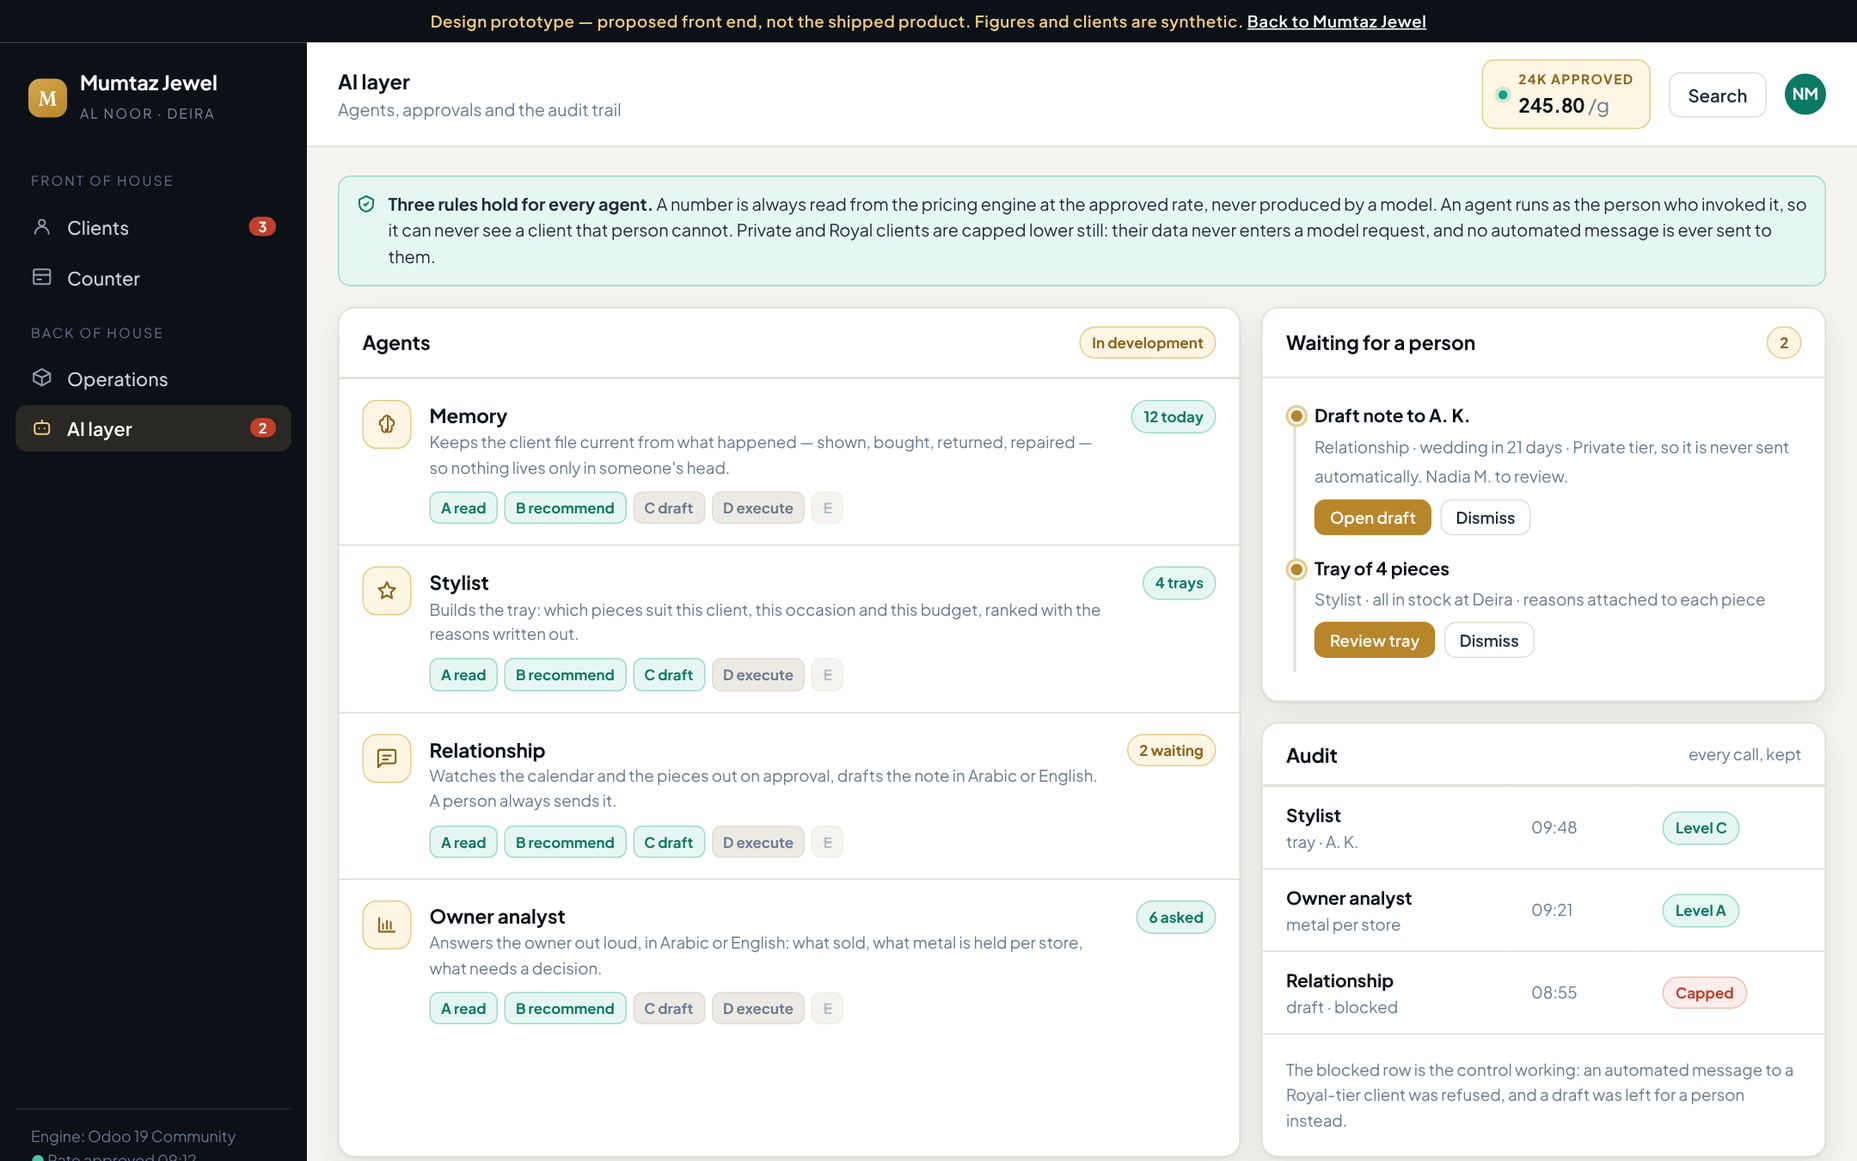
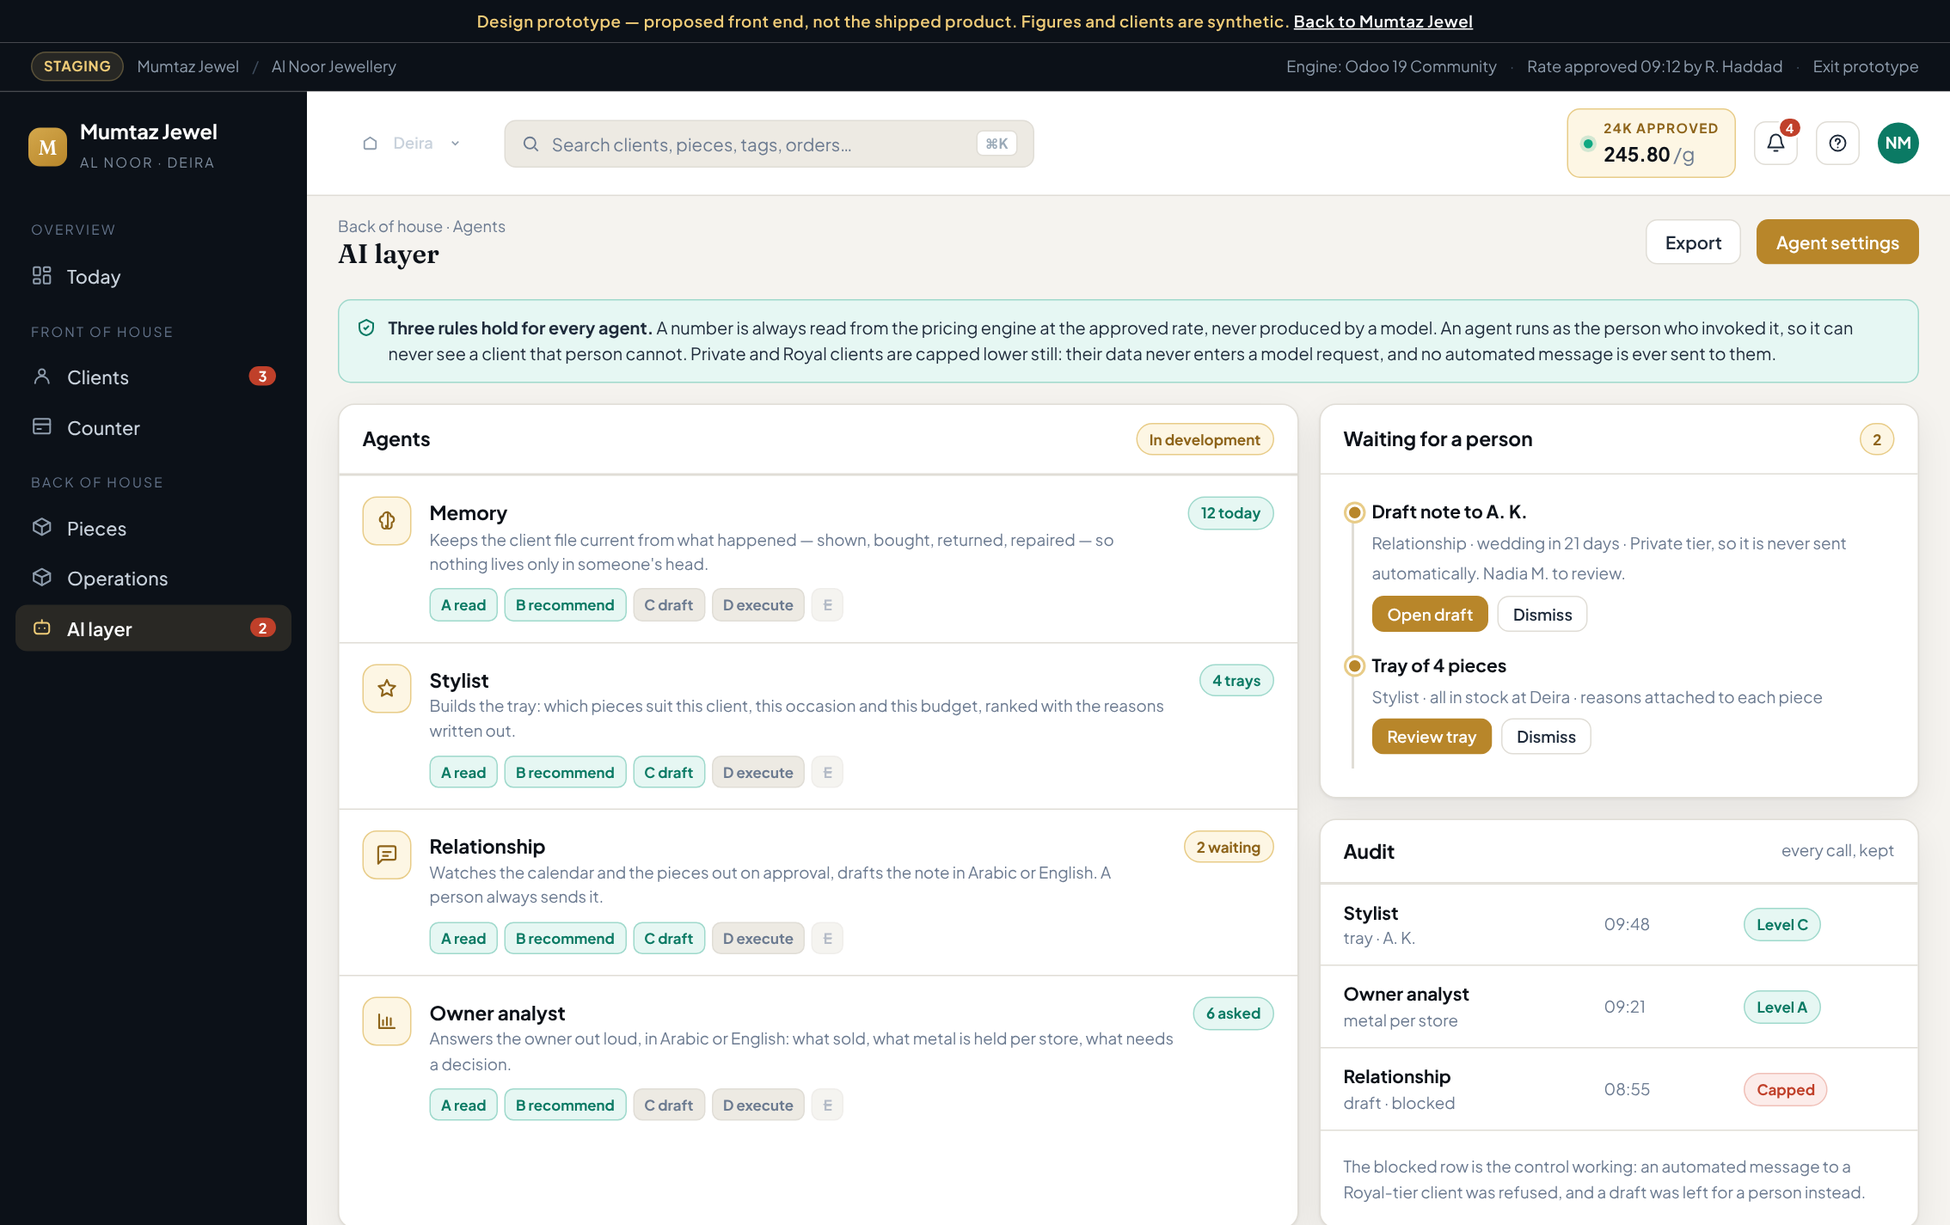
Enterprise chrome on the prototype, plus an owner overview and a pieces list
The four screens looked like a good app but not like a product an operations
director signs off. Added the chrome that distinction actually rests on.

A utility bar above everything: environment badge, tenant and brand, the
engine it runs on, and who approved today's rate at what time — the line an
auditor looks for first. A working top bar: store switcher, global search
with its keyboard hint, the live approved rate, notifications with a count,
help and the signed-in user with their role. A page bar with breadcrumb,
title and the actions that belong to that screen, changing per screen. A
status bar along the foot: connection and last sync, store and till, whose
shift is open, how long the rate snapshot is locked, and a build number.

Two new screens:

* Today — the owner's four minutes. What sold, metal moved, stock value at
  today's rate, what needs them. A week of sales, where the metal sits across
  three stores and in transit, and a decisions table where every row says
  what it is worth and carries its own button.
* Pieces — the whole book as a filterable table: tag, weight, store, age,
  live price, status. Filters for slow stock, on approval and in transit. The
  114-day row is the one the Command Centre raises for a markdown.

Six screens now, each with its own breadcrumb and primary action. Rendered at
1512 and 390 wide: no console errors, no horizontal scroll, titles and
breadcrumbs switching correctly on every tab.
[…]

Changed region(s): [[0.0, 0.0, 1.0, 1.0], [0.0, 0.9644, 0.1241, 1.0], [0.0, 0.1867, 0.062, 0.2489]]

diff --git a/website/jewel/preview/index.html b/website/jewel/preview/index.html
@@ -147,6 +147,41 @@ td{padding:11px 18px;border-top:1px solid var(--paper3)}
 .pay{display:grid;grid-template-columns:1fr 1fr;gap:9px;margin-top:12px}
 .paybtn{border:1px solid var(--paper3);background:var(--surface);border-radius:10px;padding:11px;text-align:center;font-size:.84rem;font-weight:600}
 
+/* enterprise chrome */
+.util{display:flex;align-items:center;gap:10px;padding:0 24px;height:38px;background:var(--rail);color:#8E9CAC;font-size:.76rem;border-bottom:1px solid rgba(255,255,255,.07)}
+.util .env{display:inline-flex;align-items:center;gap:6px;background:rgba(240,204,120,.12);color:var(--gold3);border:1px solid rgba(240,204,120,.26);padding:2px 9px;border-radius:999px;font-weight:700;font-size:.68rem;letter-spacing:.05em}
+.util a{color:#8E9CAC;text-decoration:none}
+.util a:hover{color:#fff}
+.store{display:inline-flex;align-items:center;gap:7px;background:rgba(255,255,255,.06);border:1px solid rgba(255,255,255,.1);border-radius:8px;padding:3px 10px;color:#C9D2DC;font-weight:600;font-size:.76rem}
+.store svg{width:12px;height:12px;stroke:#8E9CAC;fill:none;stroke-width:2.4}
+.search{flex:1;max-width:430px;display:flex;align-items:center;gap:9px;background:var(--paper2);border:1px solid var(--paper3);border-radius:9px;padding:7px 12px;color:var(--ink3);font-size:.85rem}
+.search svg{width:15px;height:15px;stroke:var(--ink3);fill:none;stroke-width:2}
+.kbd{margin-left:auto;font-size:.68rem;font-weight:700;color:var(--ink4);background:var(--surface);border:1px solid var(--paper3);border-radius:5px;padding:1px 6px}
+.iconbtn{position:relative;width:34px;height:34px;border-radius:9px;border:1px solid var(--paper3);background:var(--surface);display:grid;place-items:center}
+.iconbtn svg{width:16px;height:16px;stroke:var(--ink2);fill:none;stroke-width:1.9;stroke-linecap:round}
+.iconbtn .bdg{position:absolute;top:-5px;right:-5px;background:var(--coral);color:#fff;font-size:.62rem;font-weight:700;border-radius:999px;padding:1px 5px;border:2px solid var(--surface)}
+.pagebar{display:flex;align-items:center;gap:12px;padding:14px 24px 0}
+.pagebar h2{font-family:var(--display);font-size:1.3rem;font-weight:600}
+.pagebar .bc{font-size:.76rem;color:var(--ink3)}
+.toolbar{display:flex;align-items:center;gap:8px;padding:11px 18px;border-bottom:1px solid var(--paper3);background:var(--paper2);border-radius:var(--r) var(--r) 0 0}
+.filt{display:inline-flex;align-items:center;gap:6px;background:var(--surface);border:1px solid var(--paper3);border-radius:8px;padding:5px 10px;font-size:.78rem;font-weight:600;color:var(--ink2)}
+.filt.on{background:var(--gold-bg);border-color:var(--gold-border);color:var(--gold-dark)}
+.statusbar{display:flex;align-items:center;gap:16px;padding:8px 24px;background:var(--surface);border-top:1px solid var(--paper3);font-size:.73rem;color:var(--ink3)}
+.statusbar .dotg{width:7px;height:7px;border-radius:50%;background:var(--teal2);display:inline-block;margin-right:6px}
+.chart{display:flex;align-items:flex-end;gap:6px;height:118px;padding-top:8px}
+.chart i{flex:1;background:linear-gradient(180deg,var(--gold2),var(--gold));border-radius:3px 3px 0 0;display:block;position:relative}
+.chart i.alt{background:linear-gradient(180deg,var(--teal3),var(--teal))}
+.chartx{display:flex;gap:6px;margin-top:6px}
+.chartx span{flex:1;text-align:center;font-size:.66rem;color:var(--ink4)}
+.don{width:112px;height:112px;border-radius:50%;background:conic-gradient(var(--gold) 0 54%,var(--gold3) 54% 78%,var(--teal3) 78% 92%,var(--paper3) 92% 100%);display:grid;place-items:center;margin:0 auto}
+.don .hole{width:74px;height:74px;border-radius:50%;background:var(--surface);display:grid;place-items:center;text-align:center;line-height:1.15}
+.don .hole b{font-family:var(--display);font-size:1.15rem;font-weight:600}
+.don .hole small{font-size:.63rem;color:var(--ink3)}
+.leg{display:flex;flex-direction:column;gap:7px;font-size:.8rem}
+.leg div{display:flex;align-items:center;gap:8px}
+.leg i{width:9px;height:9px;border-radius:2px;display:block}
+@media (max-width:900px){.util{display:none}.pagebar{padding:12px 16px 0}}
+
 /* counter: client context */
 .cstrip{display:grid;grid-template-columns:auto 1fr auto;gap:16px;align-items:center;padding:14px 18px;background:
   linear-gradient(100deg,var(--ink) 0%,var(--rail2) 58%,#1E2A3A 100%);color:#fff;border-radius:var(--r);box-shadow:var(--shadow)}
@@ -211,6 +246,19 @@ td{padding:11px 18px;border-top:1px solid var(--paper3)}
   <a href="../index.html">Back to Mumtaz Jewel</a>
 </div>
 
+<div class="util">
+  <span class="env">STAGING</span>
+  <span>Mumtaz Jewel</span>
+  <span style="color:#3F4D5E">/</span>
+  <span>Al Noor Jewellery</span>
+  <span class="sp" style="flex:1"></span>
+  <span>Engine: Odoo 19 Community</span>
+  <span style="color:#3F4D5E">·</span>
+  <span>Rate approved 09:12 by R. Haddad</span>
+  <span style="color:#3F4D5E">·</span>
+  <a href="../index.html">Exit prototype</a>
+</div>
+
 <div class="shell">
   <nav class="rail">
     <div class="brandrow">
@@ -218,8 +266,14 @@ td{padding:11px 18px;border-top:1px solid var(--paper3)}
       <span><b>Mumtaz Jewel</b><small>Al Noor · Deira</small></span>
     </div>
 
+    <div class="railsec">Overview</div>
+    <button class="navb on" data-s="dash">
+      <svg viewBox="0 0 24 24"><rect x="3" y="3" width="7" height="9" rx="1.5"/><rect x="14" y="3" width="7" height="5" rx="1.5"/><rect x="14" y="12" width="7" height="9" rx="1.5"/><rect x="3" y="16" width="7" height="5" rx="1.5"/></svg>
+      Today
+    </button>
+
     <div class="railsec">Front of house</div>
-    <button class="navb on" data-s="clients">
+    <button class="navb" data-s="clients">
       <svg viewBox="0 0 24 24"><circle cx="12" cy="8" r="3.4"/><path d="M4.5 20a7.5 7.5 0 0115 0"/></svg>
       Clients <span class="pill">3</span>
     </button>
@@ -229,6 +283,10 @@ td{padding:11px 18px;border-top:1px solid var(--paper3)}
     </button>
 
     <div class="railsec">Back of house</div>
+    <button class="navb" data-s="inv">
+      <svg viewBox="0 0 24 24"><path d="M12 3l9 5v8l-9 5-9-5V8z"/><path d="M3.5 7.5L12 12l8.5-4.5M12 12v9"/></svg>
+      Pieces
+    </button>
     <button class="navb" data-s="ops">
       <svg viewBox="0 0 24 24"><path d="M12 3l9 5v8l-9 5-9-5V8z"/><path d="M12 12l9-4M12 12v9M12 12L3 8"/></svg>
       Operations
@@ -246,20 +304,130 @@ td{padding:11px 18px;border-top:1px solid var(--paper3)}
 
   <div class="main">
     <div class="top">
-      <div class="crumb"><b id="t-title">Clients</b><span id="t-sub">Client 360</span></div>
+      <div class="store">
+        <svg viewBox="0 0 24 24"><path d="M3 9l9-6 9 6v10a2 2 0 01-2 2H5a2 2 0 01-2-2z"/></svg>
+        Deira
+        <svg viewBox="0 0 24 24" style="width:10px"><path d="M6 9l6 6 6-6"/></svg>
+      </div>
+      <div class="search">
+        <svg viewBox="0 0 24 24"><circle cx="11" cy="11" r="7"/><path d="M21 21l-4.3-4.3"/></svg>
+        Search clients, pieces, tags, orders…
+        <span class="kbd">⌘K</span>
+      </div>
       <div class="sp"></div>
       <div class="rate">
         <span class="dot"></span>
         <span><small>24K approved</small><b class="num">245.80 <span class="muted" style="font-weight:400">/g</span></b></span>
       </div>
-      <button class="btn b-ghost">Search</button>
-      <span class="who">NM</span>
+      <button class="iconbtn" title="Notifications">
+        <svg viewBox="0 0 24 24"><path d="M18 8a6 6 0 10-12 0c0 7-3 7-3 9h18c0-2-3-2-3-9"/><path d="M10 21h4"/></svg>
+        <span class="bdg">4</span>
+      </button>
+      <button class="iconbtn" title="Help"><svg viewBox="0 0 24 24"><circle cx="12" cy="12" r="9"/><path d="M9.5 9.5a2.5 2.5 0 113.5 2.3c-.6.3-1 .9-1 1.7M12 17h.01"/></svg></button>
+      <span class="who" title="Nadia M. · Relationship manager">NM</span>
+    </div>
+
+    <div class="pagebar">
+      <div>
+        <div class="bc" id="t-bc">Front of house · Clients</div>
+        <h2 id="t-title">Client 360</h2>
+      </div>
+      <div class="sp" style="flex:1"></div>
+      <button class="btn b-ghost">Export</button>
+      <button class="btn b-gold" id="t-cta">New client</button>
     </div>
 
     <div class="canvas">
 
+<!-- ============ TODAY / OWNER ============ -->
+      <section class="screen on" id="s-dash">
+        <div class="g g4" style="margin-bottom:16px">
+          <div class="card kpi"><small>Sold today</small><b class="num">148,920</b><div class="d up">+18% on last Tuesday</div></div>
+          <div class="card kpi"><small>Metal moved</small><b class="num">612 g</b><div class="d muted">out 684 g · in 72 g</div></div>
+          <div class="card kpi"><small>Stock value</small><b class="num">2.91 M</b><div class="d up">+1.2% on the rate</div></div>
+          <div class="card kpi"><small>Needs you</small><b class="num">4</b><div class="d down">1 overdue</div></div>
+        </div>
+
+        <div class="g split">
+          <div class="card">
+            <div class="hd"><h3>Sales this week</h3><span class="sp"></span>
+              <span class="filt on">7 days</span><span class="filt">30 days</span><span class="filt">Quarter</span></div>
+            <div class="pad">
+              <div class="chart">
+                <i style="height:48%"></i><i style="height:62%"></i><i style="height:41%"></i>
+                <i style="height:74%"></i><i style="height:56%"></i><i class="alt" style="height:92%"></i><i style="height:38%"></i>
+              </div>
+              <div class="chartx"><span>Wed</span><span>Thu</span><span>Fri</span><span>Sat</span><span>Sun</span><span>Mon</span><span>Tue</span></div>
+              <p class="note" style="margin-top:12px">Monday was the wedding season opening. Teal marks the day the 22K necklace line sold out at Deira.</p>
+            </div>
+          </div>
+
+          <div class="card">
+            <div class="hd"><h3>Where the metal sits</h3></div>
+            <div class="pad" style="display:grid;grid-template-columns:auto 1fr;gap:18px;align-items:center">
+              <div class="don"><div class="hole"><b class="num">11.84</b><small>kg fine</small></div></div>
+              <div class="leg">
+                <div><i style="background:var(--gold)"></i> Deira · 4.14 kg</div>
+                <div><i style="background:var(--gold3)"></i> Marina · 3.93 kg</div>
+                <div><i style="background:var(--teal3)"></i> Sharjah · 3.64 kg</div>
+                <div><i style="background:var(--paper3)"></i> In transit · 0.13 kg</div>
+              </div>
+            </div>
+          </div>
+        </div>
+
+        <div class="card" style="margin-top:16px">
+          <div class="hd"><h3>Decisions waiting</h3><span class="sp"></span><span class="chip c-coral">1 overdue</span></div>
+          <table>
+            <thead><tr><th>What</th><th>Why it matters</th><th>Worth</th><th>Action</th></tr></thead>
+            <tbody>
+              <tr><td><b>Approve gold rate 246.40/g</b><div class="tiny muted">entered 08:51 by R. Haddad</div></td>
+                  <td class="tiny muted">Prices stay on this morning's rate until a different manager approves it</td>
+                  <td class="num">—</td><td><button class="btn b-gold" style="padding:5px 12px;font-size:.78rem">Review</button></td></tr>
+              <tr><td><b>Old-gold exchange OGX/00042</b><div class="tiny muted">taken in at Marina, over the threshold</div></td>
+                  <td class="tiny muted">Needs a second person before the credit is given</td>
+                  <td class="num">8,410</td><td><button class="btn b-gold" style="padding:5px 12px;font-size:.78rem">Approve</button></td></tr>
+              <tr><td><b>MEMO/00017 overdue</b><div class="tiny muted">2 pieces with a Private client since 28 Oct</div></td>
+                  <td class="tiny muted">Insured value is on your book until it comes back</td>
+                  <td class="num">31,200</td><td><button class="btn b-ghost" style="padding:5px 12px;font-size:.78rem">Open</button></td></tr>
+              <tr><td><b>Marina reconciliation open</b><div class="tiny muted">−2.4 g unexplained</div></td>
+                  <td class="tiny muted">Held open until someone accounts for it</td>
+                  <td class="num">590</td><td><button class="btn b-ghost" style="padding:5px 12px;font-size:.78rem">Open</button></td></tr>
+            </tbody>
+          </table>
+        </div>
+      </section>
+
+      <!-- ============ PIECES / INVENTORY ============ -->
+      <section class="screen" id="s-inv">
+        <div class="card">
+          <div class="toolbar">
+            <span class="filt on">All stores</span>
+            <span class="filt">22K</span>
+            <span class="filt">On approval</span>
+            <span class="filt">Unsold 90+ days</span>
+            <span class="sp" style="flex:1"></span>
+            <span class="tiny muted">1,284 pieces · 11.84 kg fine · priced at 245.80/g</span>
+          </div>
+          <table>
+            <thead><tr><th>Tag</th><th>Piece</th><th>Karat</th><th>Net</th><th>Store</th><th>Age</th><th>Price</th><th>Status</th></tr></thead>
+            <tbody>
+              <tr><td class="num">BNG-0001</td><td><b>Bangle</b><div class="tiny muted">cert 55121</div></td><td>22K</td><td class="num">24.500 g</td><td>Deira</td><td class="tiny muted">12 d</td><td class="num">6,491.74</td><td><span class="chip c-teal">In stock</span></td></tr>
+              <tr><td class="num">NCK-0114</td><td><b>Necklace</b><div class="tiny muted">asked for by A. K.</div></td><td>22K</td><td class="num">41.200 g</td><td>Deira</td><td class="tiny muted">31 d</td><td class="num">10,918.20</td><td><span class="chip c-gold">Reserved</span></td></tr>
+              <tr><td class="num">RNG-0002</td><td><b>Ring with stones</b><div class="tiny muted">cert 55122</div></td><td>18K</td><td class="num">6.300 g</td><td>Marina</td><td class="tiny muted">8 d</td><td class="num">4,102.55</td><td><span class="chip c-gold">On approval</span></td></tr>
+              <tr><td class="num">CHN-0002</td><td><b>Chain</b></td><td>21K</td><td class="num">42.100 g</td><td>Sharjah</td><td class="tiny muted">114 d</td><td class="num">11,236.40</td><td><span class="chip c-coral">Slow</span></td></tr>
+              <tr><td class="num">PND-0031</td><td><b>Pendant</b></td><td>21K</td><td class="num">9.400 g</td><td>Marina</td><td class="tiny muted">46 d</td><td class="num">2,508.90</td><td><span class="chip c-teal">In stock</span></td></tr>
+              <tr><td class="num">BNG-0002</td><td><b>Bangle</b></td><td>22K</td><td class="num">31.200 g</td><td>In transit</td><td class="tiny muted">3 d</td><td class="num">8,266.08</td><td><span class="chip c-grey">Transfer</span></td></tr>
+            </tbody>
+          </table>
+          <div class="pad" style="border-top:1px solid var(--paper3)">
+            <p class="note" style="margin:0">Every price on this list is computed live from the approved rate — change the rate and the whole book reprices. The slow row is 114 days old: the Command Centre raises those for a markdown, a transfer or a remake.</p>
+          </div>
+        </div>
+      </section>
+
       <!-- ============ CLIENT 360 ============ -->
-      <section class="screen on" id="s-clients">
+      <section class="screen" id="s-clients">
         <div class="card" style="margin-bottom:16px">
           <div class="hero360">
             <div class="ava">AK</div>
@@ -602,16 +770,27 @@ td{padding:11px 18px;border-top:1px solid var(--paper3)}
       </section>
 
     </div>
+
+    <div class="statusbar">
+      <span><span class="dotg"></span>Connected · last sync 12 s ago</span>
+      <span>Store: Deira · till 2</span>
+      <span>Shift open 09:00 · Nadia M.</span>
+      <span class="sp" style="flex:1"></span>
+      <span>Rate snapshot locked until 18:00</span>
+      <span>v0.4.0-preview</span>
+    </div>
   </div>
 </div>
 
 <script>
 (function(){
   var titles = {
-    clients: ['Clients','Client 360'],
-    pos:     ['Counter','Sell, exchange, take payment'],
-    ops:     ['Operations','Stores, stock and the daily reconciliation'],
-    agents:  ['AI layer','Agents, approvals and the audit trail']
+    dash:    ['Today','Owner · Overview','Refresh'],
+    clients: ['Client 360','Front of house · Clients','New client'],
+    pos:     ['Counter','Front of house · Till 2','Park sale'],
+    inv:     ['Pieces','Back of house · Inventory','Add piece'],
+    ops:     ['Operations','Back of house · Stores and stock','New transfer'],
+    agents:  ['AI layer','Back of house · Agents','Agent settings']
   };
   var btns = document.querySelectorAll('.navb');
   btns.forEach(function(b){
@@ -622,7 +801,8 @@ td{padding:11px 18px;border-top:1px solid var(--paper3)}
         sc.classList.toggle('on', sc.id === 's-' + s);
       });
       document.getElementById('t-title').textContent = titles[s][0];
-      document.getElementById('t-sub').textContent = titles[s][1];
+      document.getElementById('t-bc').textContent = titles[s][1];
+      document.getElementById('t-cta').textContent = titles[s][2];
       document.querySelector('.canvas').scrollTop = 0;
       try { location.hash = s; } catch(e) {}
     });

diff --git a/website/jewel/index.html b/website/jewel/index.html
@@ -387,6 +387,25 @@ footer{border-top:1px solid var(--paper3);padding:34px 0 48px;color:var(--ink3);
 
     <div class="shots shots-2" style="margin-top:22px">
       <div class="shot">
+        <a href="preview/#dash"><img src="site/img/ui-dash.png" loading="lazy" width="2268" height="1425"
+             alt="Owner overview: four headline figures, a week of sales as a bar chart, a doughnut of where the metal sits by store, and a table of decisions waiting."></a>
+        <div class="cap">
+          <b>Today, for the owner</b>
+          <span>Four minutes' worth: what sold, what metal moved, what the
+          stock is worth at today's rate, and the decisions actually waiting —
+          each with what it is worth and a button.</span>
+        </div>
+      </div>
+      <div class="shot">
+        <a href="preview/#inv"><img src="site/img/ui-inv.png" loading="lazy" width="2268" height="1425"
+             alt="Pieces list with filters by store, karat, on approval and slow stock, showing tag, weight, store, age, live price and status."></a>
+        <div class="cap">
+          <b>Every piece, priced live</b>
+          <span>Change the approved rate and the whole book reprices. Filters
+          for slow stock, pieces out on approval and metal in transit.</span>
+        </div>
+      </div>
+      <div class="shot">
         <a href="preview/#ops"><img src="site/img/ui-ops.png" loading="lazy" width="2160" height="1350"
              alt="Operations screen: metal held and stock value, a daily gold reconciliation table per store with a variance flagged, store list and transfers in flight."></a>
         <div class="cap">
